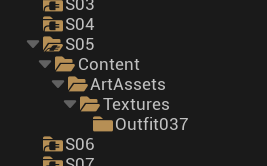
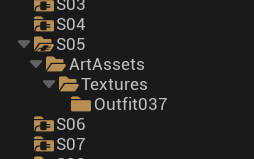
Finish texture guide: Fix directory instructions, add cooking section, add packaging section

Changed region(s): [[0.0551, 0.0, 0.7165, 1.0]]

diff --git a/docs/ModDevelopment/Textures/textures.md b/docs/ModDevelopment/Textures/textures.md
@@ -17,8 +17,6 @@ Plugin Template Project
 
 This guide will show you how to replace the BC (Base Color) texture on a skin in the game - a modification sometimes called a "recolor". The steps shown here can also be applied to any other texture in the game, not limited to skins.
 
-
-
 Please refer to the [FModel setup guide](../../fmodel.md) if you haven't already. The rest of this guide assumes you have FModel working. 
 
 
@@ -87,7 +85,8 @@ Now open the plugins folder and find the plugin of the character you're replacin
 
 </div>
 
-If we look in FModel we can see the folder structure we need: `Content > ArtAssets > Textures > Outfit037`. Let's recreate it in UE; you can create new folders by either right clicking the empty space then choosing `New Folder`, or left clicking the empty space then pressing `CTRL + N`.
+If we look in FModel we can see the folder structure we need: `Content > ArtAssets > Textures > Outfit037`. **However**, the `Content` folder is hidden and automatically created for us, so the first folder we actually create is `ArtAssets`, not `Content`. 
+
 
 <div class="image-row" style="--image-row-height: 190px" markdown>
 
@@ -96,6 +95,9 @@ If we look in FModel we can see the folder structure we need: `Content > ArtAsse
 ![](../../img/ueeditor_s05_recreatedfolders.png)
 
 </div>
+
+!!! info
+	To create new folders in the content drawer, right click the empty space then choose `New Folder`, or left click the empty space then press `CTRL + N`.
 
 Now import the texture by dragging it in from file explorer. You can see that I appended `_EDIT` to the file name while I was editing it, we need to fix this.
 
@@ -117,9 +119,66 @@ Our asset needs to be named **exactly** as it is named in FModel, otherwise it w
 
 </div>
 
-We've now placed the asset at the correct location and made sure it's named correctly, great! If you are replacing multiple textures, you will need to do the same for all of them. After that, the next step is cooking and packaging our mod.
+We've now placed the asset at the correct location and made sure it's named correctly. If you are replacing multiple textures, you will need to do the same for all of them. After that, the next step is cooking and packaging our mod.
 
 
-## Cooking and packaging
+## Cooking
 
-# WIP
+Before cooking the mod content, make sure all the assets have been saved by pressing `Save All` in the content drawer then `Save Selected` in the popup. If you don't get a popup, that means all assets are already saved and you can continue.
+
+<div class="image-row" style="--image-row-height: 160px" markdown>
+
+![](../../img/ueeditor_saveall.png)
+
+![](../../img/ueeditor_saveall2.png)
+
+</div>
+
+Next, in the top bar of the editor, click `Platforms > Cook Content > Cook Content`. After a few minutes - or a lot of minutes if it's your first time cooking something in the project - you'll see a `Cooking Complete` notification in the bottom right.
+
+![](../../img/ueeditor_cookcontent.png){ .center width=400 }
+
+![](../../img/ueeditor_cookingcomplete.png){ .center width=400 }
+
+In our cooked content directory at `{TemplateProject}/Saved/Cooked/Windows/******Daylight/` we can now see the folders `Plugins/DBDCharacters/S05/Content/ArtAssets/Textures/Outfit037/`. UE created the `Content` folder for the plugin automatically, and the path now looks exactly like in FModel.
+
+<div class="image-row" style="--image-row-height: 180px" markdown>
+
+![](../../img/templateproject_highlightsaved.png)
+
+![](../../img/texture_cookedcontent.png)
+
+</div>
+
+## Packaging
+
+To pack the mod we will be using a custom UnrealPak version for DaylightGame, make sure you have it downloaded, then follow these steps:
+
+1. Go to `{TemplateProject}\Saved\Cooked\Windows` and copy the `******Daylight` folder. 
+2. Go to your UnrealPak folder and create a new pakchunk folder. 
+
+3. Open the new pakchunk folder and paste the cooked `******Daylight` folder you copied.
+
+<div class="image-row" style="--image-row-height: 170px" markdown>
+
+![](../../img/template_cookedcontent.png)
+
+![](../../img/unrealpak_newpakchunk.png)
+
+</div>
+
+![](../../img/unrealpak_pakchunkpastecooked.png){ .center }
+
+Next, we need to remove all unnecessary assets that also got cooked. If we don't, then we would replace lots of other things which we didn't to, and the game would most likely crash or behave weirdly. **The `AssetRegistry.bin` file and `Metadata` folder should always be deleted.**
+
+For our mod, we know that the only thing we want to replace is the `T_NKTorso037_BC` texture at `******Daylight\Plugins\DBDCharacters\S05\Content\ArtAssets\Textures\Outfit037`. Therefore, we will delete the entire *top-level* `Content` folder at `pakchunk1000{YourNumber}-Windows\******Daylight\Content` (not the plugin Content folder!). If you are replacing an asset that exists in the top-level content folder, e.g. assets not in a plugin, then you would of course not delete it.
+
+![](../../img/unrealpak_deleteunnecessary.png){ .center width=500 }
+
+After we've made sure we're only packing what we want, we can go ahead and run UnrealPak. It comes with two `.bat` files, one for packing with compression, and one for packing without. You almost certainly want to use the one with compression. Pack the mod by dragging the pakchunk folder over the `.bat` file.
+
+![](../../img/unrealpak_dragdroppakchunk.png){ .center width=500 }
+
+Congratulations, the mod is complete! The `.bat` script should have automatically moved the newly packed mod into your game files, and if it didn't then something is probably wrong (check that the `paks_directory.txt` is correct). 
+
+Depending on which mod loader/pakbypass you use, you may have to manually create a `.sig` file for the mod as well. You can do this by going to the game's Paks folder and copying any `.sig` file then renaming it to your mod's pakchunk name.
